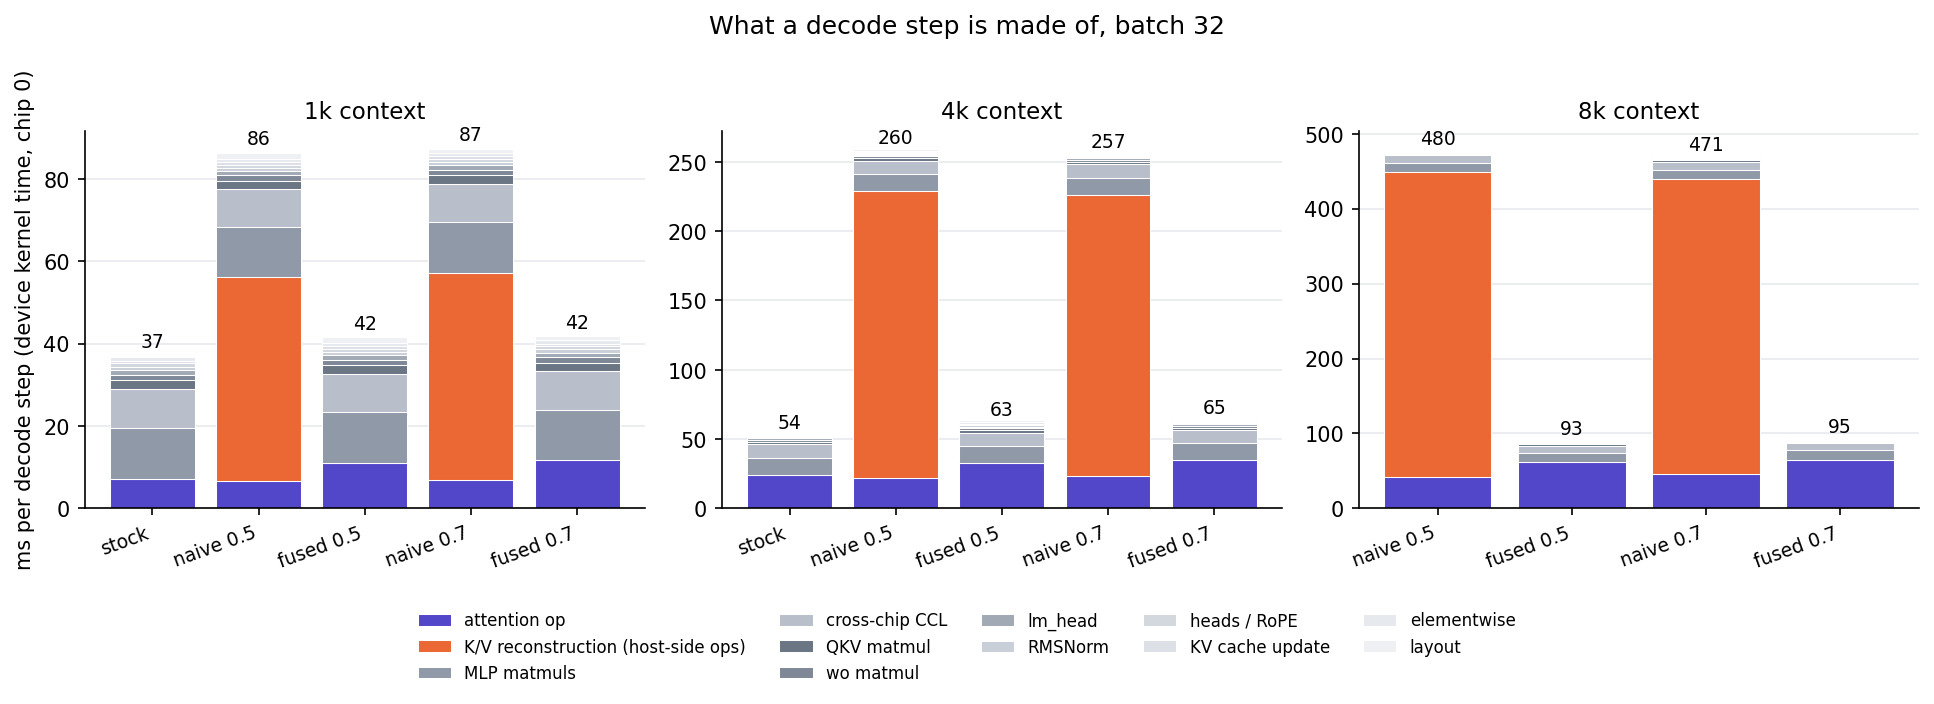
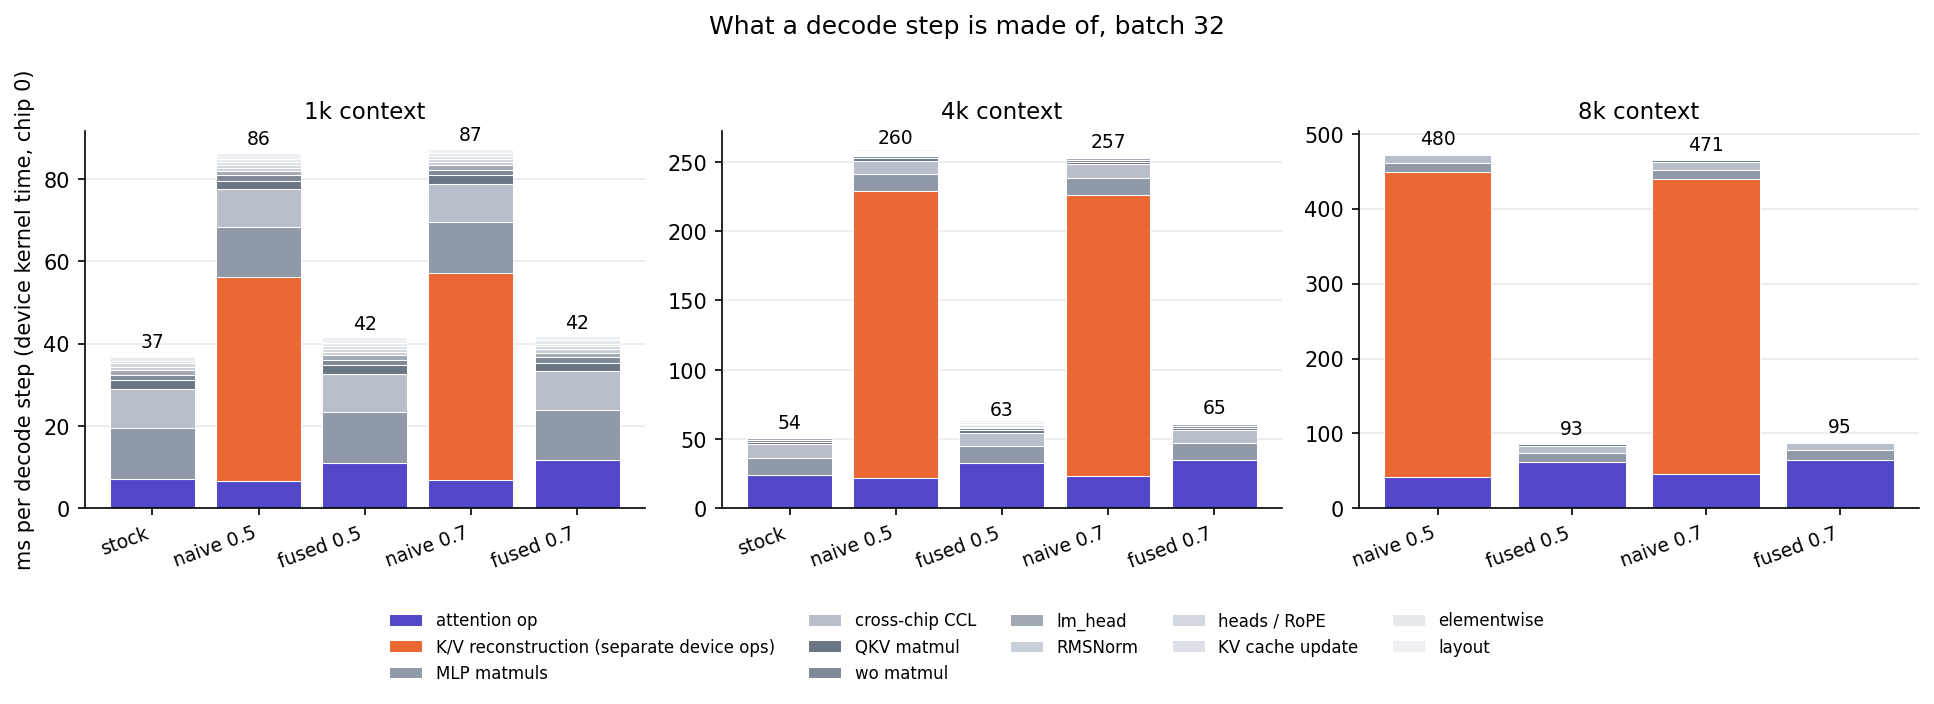
Stage 2d: the naive path's reconstruction is separate device ops, not host-side work (labels, legend, report wording)
Claude-Session: https://claude.ai/code/session_01SEbH3ediiqrAP9zmP59kKs

Changed region(s): [[0.1861, 0.875, 0.8066, 0.9688]]

diff --git a/palu_tt/profile_plots.py b/palu_tt/profile_plots.py
@@ -7,7 +7,7 @@ Figures:
                              op category, one bar per row
   profile_attention_ctx.png  attention + K-reconstruction device time per step against context, per row
   profile_bridge_4k.png      how the ratio-0.5 rows differ from stock at 4k: stock -> naive (what the
-                             host-side reconstruction adds) -> fused (what the kernel removes)
+                             reconstruction adds as separate device ops) -> fused (what the kernel removes)
   profile_top_ops_4k.png     the largest op signatures at 4k for stock and the two fused rows
 """
 import json
@@ -31,7 +31,7 @@ CATS = ("attention", "k_recon", "mlp", "ccl", "qkv", "wo", "lm_head", "norm", "h
 CAT_COLOR = {"attention": "#5347c9", "k_recon": "#eb6834", "mlp": "#8f99a7", "ccl": "#b8bfca", "qkv": "#6b7684",
              "wo": "#7f8896", "lm_head": "#a1a9b5", "norm": "#c9cfd8", "heads": "#d3d8df", "cache": "#dde1e7",
              "elementwise": "#e6e9ee", "layout": "#eef0f3", "other": "#f4f5f8"}
-CAT_LABEL = {"attention": "attention op", "k_recon": "K/V reconstruction (host-side ops)", "mlp": "MLP matmuls",
+CAT_LABEL = {"attention": "attention op", "k_recon": "K/V reconstruction (separate device ops)", "mlp": "MLP matmuls",
              "ccl": "cross-chip CCL", "qkv": "QKV matmul", "wo": "wo matmul", "lm_head": "lm_head", "norm": "RMSNorm",
              "heads": "heads / RoPE", "cache": "KV cache update", "elementwise": "elementwise", "layout": "layout", "other": "other"}
 

diff --git a/palu_tt/profile_report.py b/palu_tt/profile_report.py
@@ -15,7 +15,8 @@ into a category, and writes ``docs/results/raw/profile_<name>.json``:
 Categories (what a decode step is made of):
   attention      the decode attention op itself: stock SDPA decode, the MLA op used by the naive Palu path,
                  or the fused palu_sdpa_decode
-  k_recon        the naive Palu path's host-side K/V reconstruction: latent @ U matmuls, the prefill-mode
+  k_recon        the naive Palu path's K/V reconstruction, issued as separate device ops from Python
+                 (nothing runs on the CPU): latent @ U matmuls, the prefill-mode
                  RoPE over the rebuilt K, typecasts and slices of the reconstructed tensors
   qkv            the fused QKV projection matmul
   wo             the output projection matmul

diff --git a/docs/results/stage2d.md b/docs/results/stage2d.md
@@ -70,7 +70,8 @@ in these same profiles (§1). Percentages quoted as "% of roofline" are against 
 ![What a decode step is made of](profile_breakdown.png)
 
 Device ms per step, split into the attention block (the attention op plus, for the naive rows, the
-host-side K/V reconstruction) and everything else:
+K/V reconstruction, which runs as separate device ops issued from Python -- nothing in it runs on the
+CPU; "outside the kernel" is the distinction, not "on the host") and everything else:
 
 | row | ctx | total | attention op | k_recon | everything else |
 |---|---|---|---|---|---|
